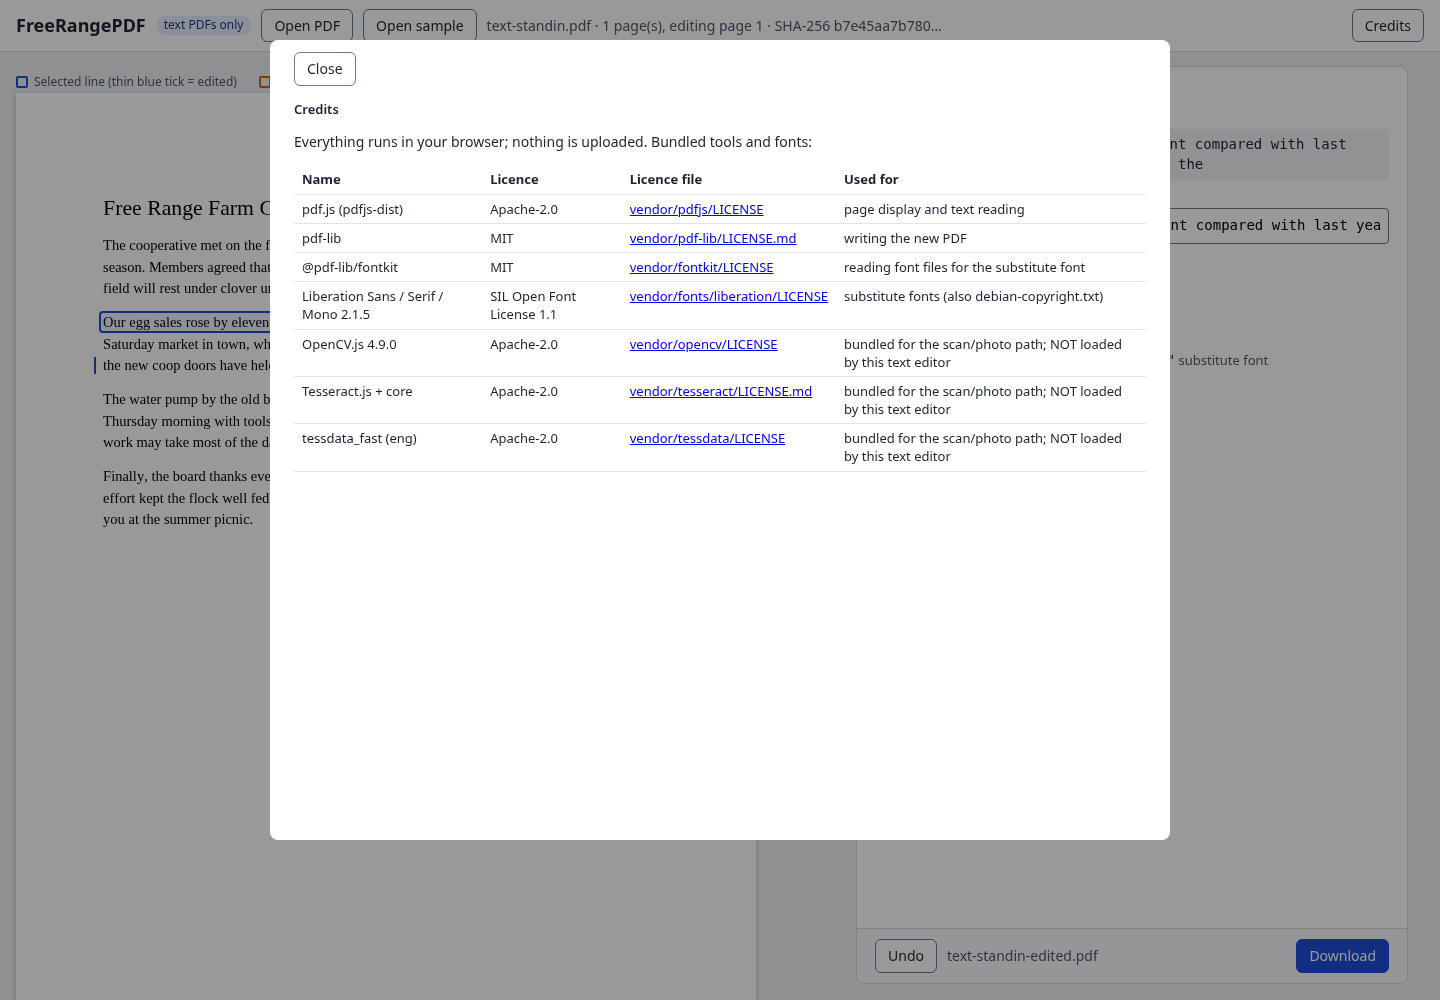
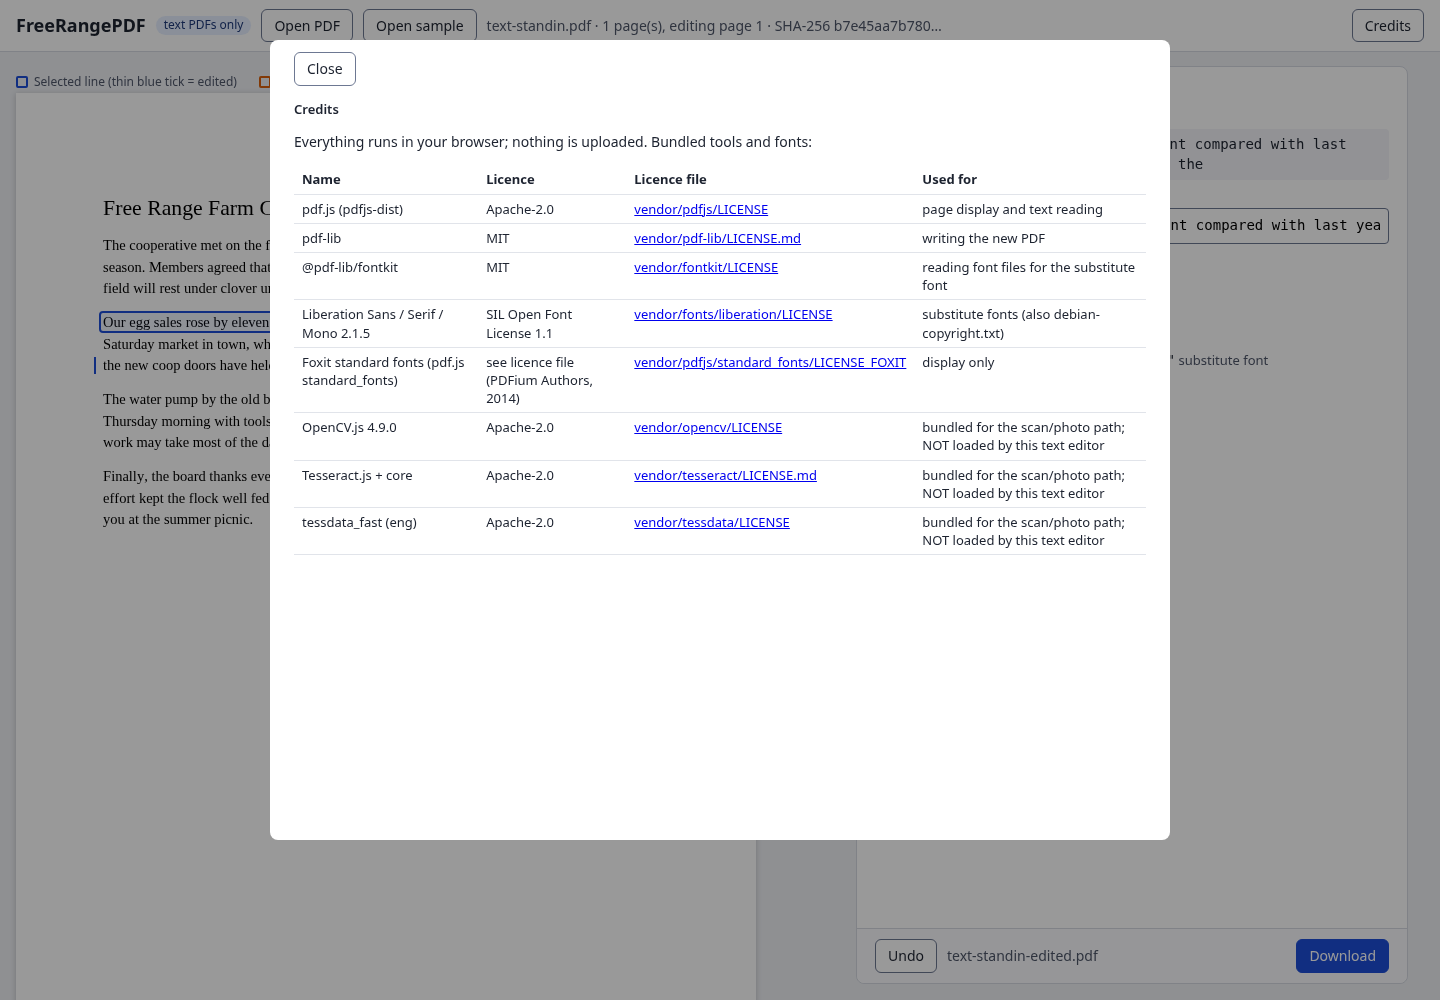
Credits: relative licence links, Foxit fonts line; scrub private-looking names from proof

Changed region(s): [[0.4375, 0.155, 0.7812, 0.558], [0.1875, 0.279, 0.4062, 0.527], [0.3438, 0.155, 0.375, 0.217]]

diff --git a/app/app.js b/app/app.js
@@ -256,11 +256,12 @@ const CREDITS = [
   ['pdf-lib', 'MIT', 'vendor/pdf-lib/LICENSE.md', 'writing the new PDF'],
   ['@pdf-lib/fontkit', 'MIT', 'vendor/fontkit/LICENSE', 'reading font files for the substitute font'],
   ['Liberation Sans / Serif / Mono 2.1.5', 'SIL Open Font License 1.1', 'vendor/fonts/liberation/LICENSE', 'substitute fonts (also debian-copyright.txt)'],
+  ['Foxit standard fonts (pdf.js standard_fonts)', 'see licence file (PDFium Authors, 2014)', 'vendor/pdfjs/standard_fonts/LICENSE_FOXIT', 'display only'],
   ['OpenCV.js 4.9.0', 'Apache-2.0', 'vendor/opencv/LICENSE', 'bundled for the scan/photo path; NOT loaded by this text editor'],
   ['Tesseract.js + core', 'Apache-2.0', 'vendor/tesseract/LICENSE.md', 'bundled for the scan/photo path; NOT loaded by this text editor'],
   ['tessdata_fast (eng)', 'Apache-2.0', 'vendor/tessdata/LICENSE', 'bundled for the scan/photo path; NOT loaded by this text editor'],
 ];
 $('creditsBody').innerHTML = '<p>Everything runs in your browser; nothing is uploaded. Bundled tools and fonts:</p><table><tr><th>Name</th><th>Licence</th><th>Licence file</th><th>Used for</th></tr>' +
-  CREDITS.map(c => `<tr><td>${c[0]}</td><td>${c[1]}</td><td><a href="/${c[2]}" target="_blank">${c[2]}</a></td><td>${c[3]}</td></tr>`).join('') + '</table>';
+  CREDITS.map(c => `<tr><td>${c[0]}</td><td>${c[1]}</td><td><a href="../${c[2]}" target="_blank">${c[2]}</a></td><td>${c[3]}</td></tr>`).join('') + '</table>';
 $('creditsBtn').addEventListener('click', () => $('credits').hidden = false); $('creditsClose').addEventListener('click', () => $('credits').hidden = true);
 window.FRP_APP = { S, deriveEdit, verify };

diff --git a/proof/REPORT.md b/proof/REPORT.md
@@ -2,7 +2,7 @@
 
 Last run: Sun Oct 18 2026 08:14:56 GMT-0700 (Pacific Daylight Time). Headless Chrome (Playwright) against a static page on `127.0.0.1`; every other host is aborted and logged. Blocked external requests: **0**. All libraries are vendored under `vendor/`.
 
-**Stand-ins only.** Every input in this repo is a stand-in I made (`proof/inputs/`). The proof on Micah's real scanned bill is kept outside the repo and is not quoted here. Its report is `/workspace/frm-pdf-private/REPORT-real.md`, generated by the runner when `FRM_PDF_PRIVATE` points at that folder. `scripts/check-no-private.sh` (installed as the git pre-commit hook) refuses to commit any file from it.
+**Stand-ins only.** Every input in this repo is a stand-in I made (`proof/inputs/`). The proof on the real scanned bill is kept outside the repo and is not quoted here. Its report is `REPORT-real.md` in that external folder, generated by the runner when `FRM_PDF_PRIVATE` points at that folder. `scripts/check-no-private.sh` (installed as the git pre-commit hook) refuses to commit any file from it.
 
 ## Summary
 
